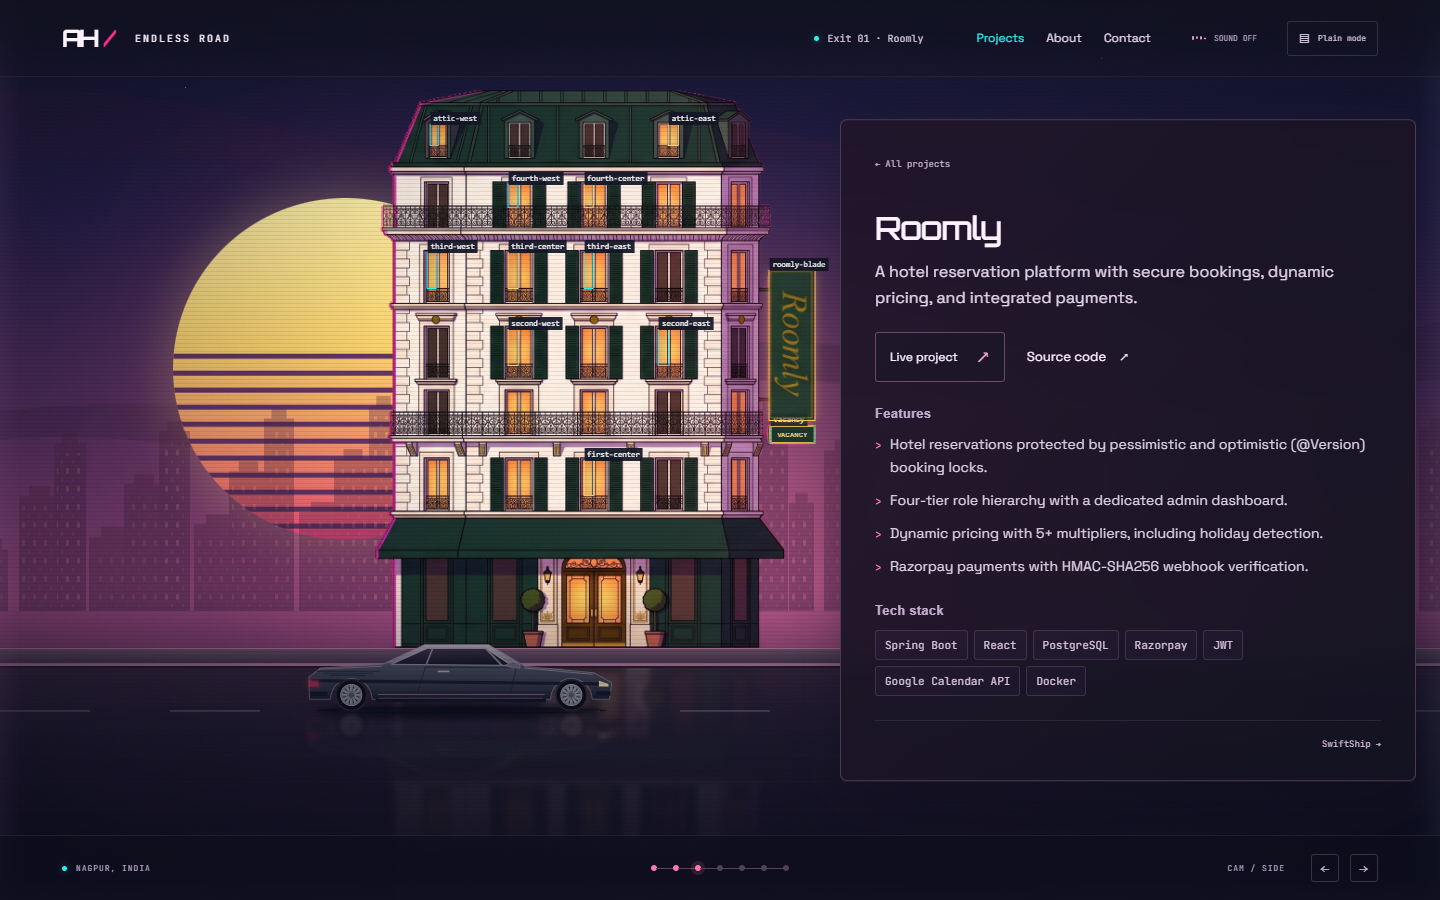
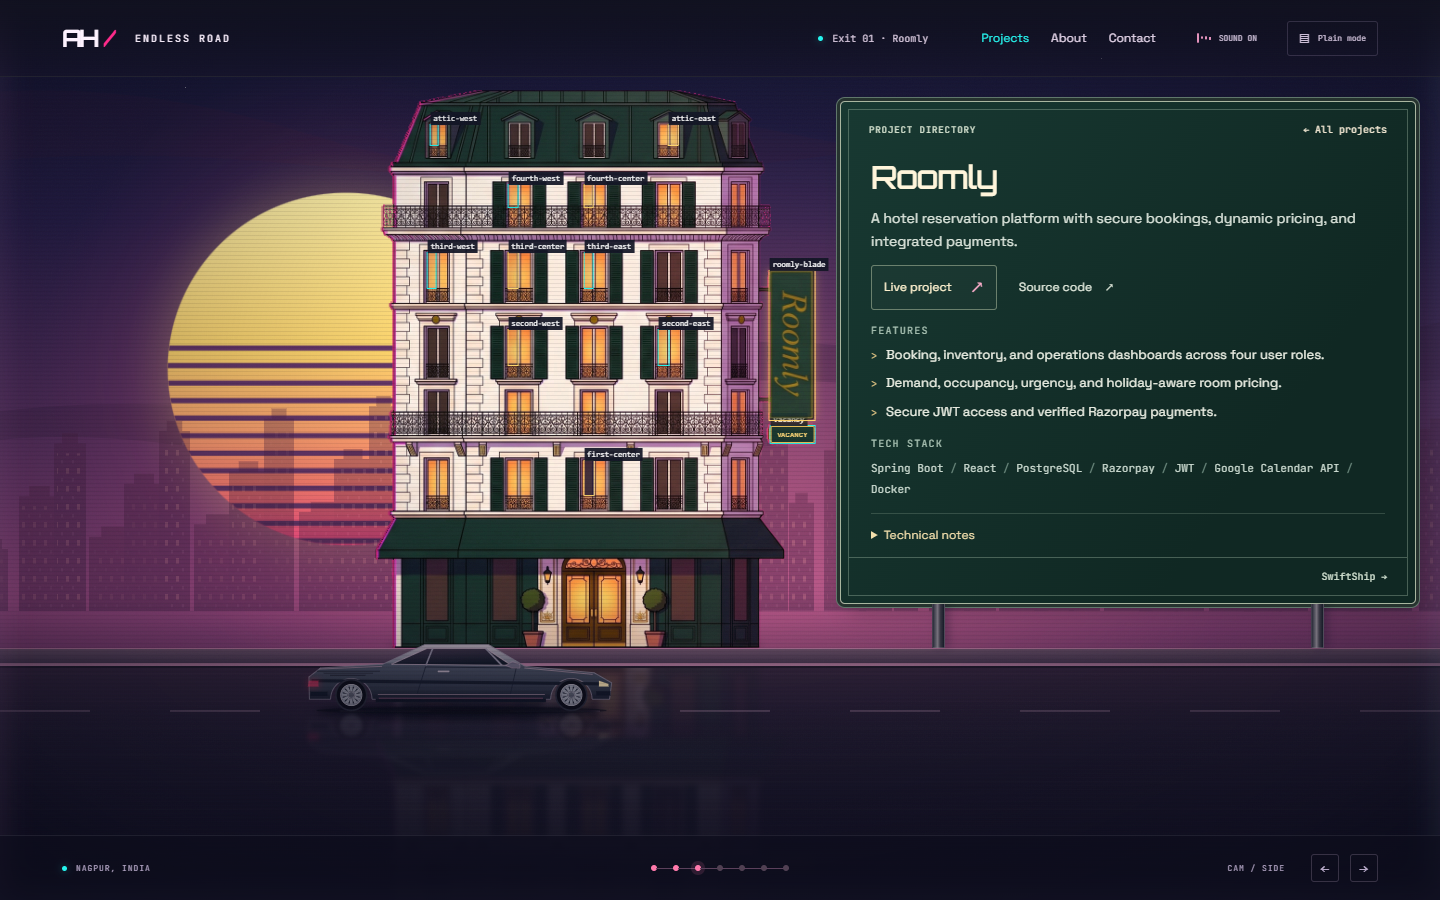
Save roadside directory previews and implementation notes

diff --git a/HANDOFF.md b/HANDOFF.md
@@ -26,3 +26,8 @@ No implementation prerequisites remain for the illustrated stops. External input
 ## Supplied audio integration — 2026-11-03
 - Added the user-supplied Resonance.mp3 unchanged to public/assets/audio/resonance.mp3 and connected AudioProvider.
 - Production build passes. Browser test verifies decoding, ignition playback, 0.35 volume, loop, analyser response, mute, persisted mute on reload, and unmute playback; no page errors.
+
+## Roadside project directories — 2026-11-03
+- Replaced floating project windows with green framed directory boards whose posts align with the curb. Mobile keeps a readable, independently scrolling panel with persistent project navigation.
+- Three concise features per project; detailed implementation and test results expand under Technical notes (always visible in plain mode).
+- Project facts and SignalRoute repository link were extracted from the supplied résumé. The original résumé and personal contact information were not added to the public assets.
